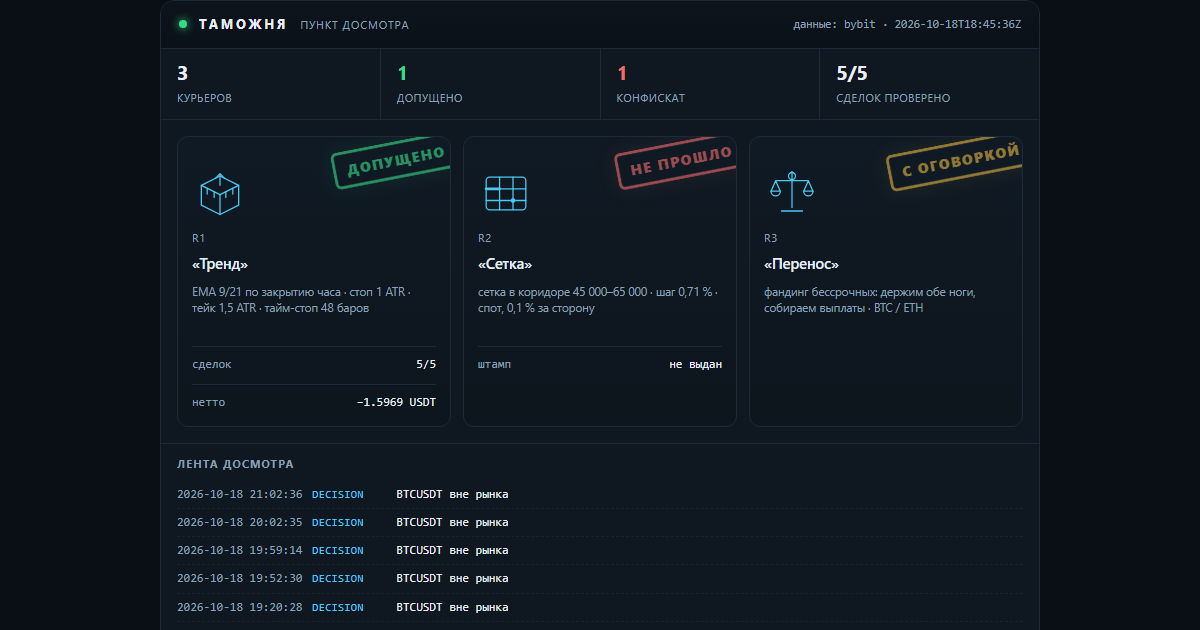
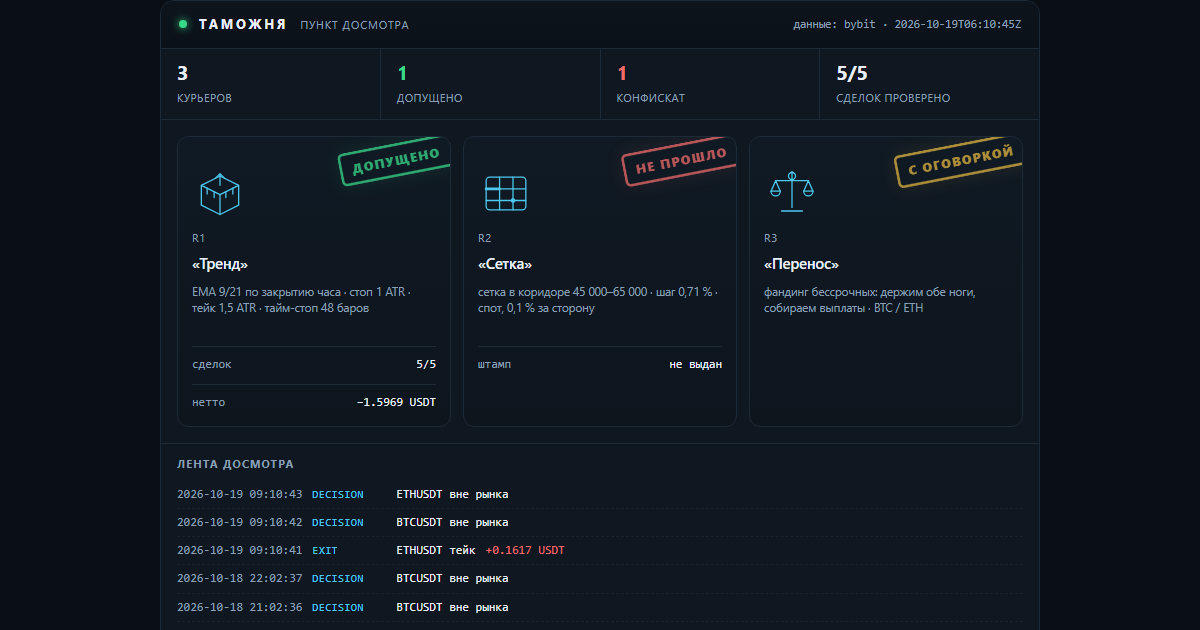
lab: таможня — свежие числа досмотра

diff --git a/docs/customs.html b/docs/customs.html
@@ -16,7 +16,7 @@
   <h1><a href="index.html">Gramwright Lab</a></h1>
   <p>Журнал проверки торговых гипотез: что проверяли, что вышло по факту, сколько съели издержки. Числа берутся из журнала стенда. Не инвестиционная рекомендация.</p>
 </header>
-<h1>Таможня</h1><p class="intro">Пункт досмотра заявленных результатов. Стратегии приезжают с грузом обещаний, и каждая проходит проверку по публичным данным биржи: цены существуют, комиссии по тарифу, нетто сходится. Что прошло — получает штамп. Что не прошло — в конфискат, с причиной. Штамп означает «записи подлинные», а не «стратегия прибыльна».</p><p><img src="img/customs.png" alt="Терминал досмотра: три курьера, штампы, лента событий" style="width:100%;height:auto;border:1px solid var(--line);border-radius:10px"></p><p class="c-note">Сверху — тот же терминал, что собирается из журналов: счётчики, эмблемы курьеров, штампы и лента последних событий. Ниже — то же самое текстом, чтобы читалось с телефона и индексировалось поиском.</p><article><h2>R1 «Тренд» <span class="verdict">— <span class="c-ok">допущено</span></span></h2><p><strong>Правило:</strong> EMA 9/21 по закрытию часа · стоп 1 ATR · тейк 1,5 ATR · тайм-стоп 48 баров</p><p><strong>Декларация:</strong> Заявлено до прогона: держать 30 сделок, лимит нотионала 10 % от счёта, стоп дня −1 %. Прибыль не заявлялась — это важно: курьер не обещал доход.</p><p><strong>Проверено по публичным свечам, без ключей:</strong> 5 из 5 сделок. Сумма нетто −1.5969 USDT.</p><ul class="c-chk"><li class="y">BTCUSDT: нетто −0.8746 USDT · комиссии 0.0901 · проверено · с поправкой</li><li class="y">BTCUSDT: нетто −0.5441 USDT · комиссии 0.0896 · проверено</li><li class="y">ETHUSDT: нетто −0.2253 USDT · комиссии 0.0266 · проверено</li><li class="y">ETHUSDT: нетто −0.1513 USDT · комиссии 0.0265 · проверено</li><li class="y">ETHUSDT: нетто +0.1984 USDT · комиссии 0.0262 · проверено</li></ul><p class="tags">журнал sha256 ccc5a251a33e6d5a… · проверяльщик verify-1</p><p class="c-note">Штамп означает: записи подлинные, а не что стратегия прибыльна. Курьер в минусе, и минус тоже стоит на штампе — иначе это была бы не проверка, а реклама.</p><p class="tags">источник: verify-report.json</p></article><article><h2>R2 «Сетка» <span class="verdict">— <span class="c-bad">не прошло</span></span></h2><p><strong>Правило:</strong> сетка в коридоре 45 000–65 000 · шаг 0,71 % · спот, 0,1 % за сторону</p><p><strong>Декларация:</strong> Заявлено: «44 % урожая уходит бирже в виде комиссий». Кроме того — перевес над простым владением монетой.</p><p><strong>Что сошлось:</strong></p><ul class="c-chk"><li class="y">сами числа пересчитаны и воспроизводятся: коридор 45–65k был активен 23 % всей истории и 28 % последних двух лет</li></ul><p><strong>Что не сошлось:</strong></p><ul class="c-chk"><li class="n">44 % не подтвердилось: при шаге 0,71 % и тарифе 0,1 % комиссия съедает 28,3 % шага. Чтобы получить 44 %, нужен шаг 0,45 % — это около 80 уровней, а не 50</li><li class="n">от урожая доля комиссий 85,5 % за всю историю и 49,6 % за последние два года — тоже не 44 %</li><li class="n">перевес над владением посчитан на тарифе 0,055 %: при нём +1,32 п. п., на розничном 0,1 % — −0,72 п. п. То есть перевес исчезает</li><li class="n">семилетний тест стартовал в сентябре 2019 при биткоине около 10 000 — ниже коридора. Он говорит, что фиксированный коридор не подходит для периода, а не что сетка отстаёт</li></ul><p class="tags">источник: lab_grid.py, пересчёт 17.10.2026</p></article><article><h2>R3 «Перенос» <span class="verdict">— <span class="c-warn">с оговоркой</span></span></h2><p><strong>Правило:</strong> фандинг бессрочных: держим обе ноги, собираем выплаты · BTC / ETH</p><p><strong>Декларация:</strong> Заявлено: около 11,9 % в год от выплат фандинга при просадке выплатной кривой меньше 2 %.</p><p><strong>Что сошлось:</strong></p><ul class="c-chk"><li class="y">выплаты взяты из публичной истории биржи, ключей не нужно: BTC — 7 190 выплат с 25.03.2020, ETH — 6 561 с 21.10.2020</li><li class="y">сумма сходится: +83,4 % и +83,2 % за 6,6 и 6,0 года — те самые ~11,9 % в год</li><li class="y">худшая просадка выплатной кривой: −1,65 % и −1,97 %</li></ul><p><strong>Что не сошлось:</strong></p><ul class="c-chk"><li class="n">оговорка 1: премию сжали — 2021 год дал +38,3 %, 2026 — +1,96 %. Прошлое не повторяется</li><li class="n">оговорка 2: вход-выход стоит около 0,31 %, капитала нужно 1,2 от нотионала, текущий базис −0,082 % против входа</li><li class="n">оговорка 3: риск площадки. История FTX в этой же таблице выглядела так же прилично</li></ul><p class="tags">источник: публичная история фандинга Bybit, замер 17.10.2026</p></article><div class="c-conf"><h3>Конфискат</h3><p><strong>«Сетка»: заявленные 44 % комиссий не подтвердились.</strong> Досмотр показал 28,3 % от шага и 85,5 % от урожая — цифра хуже заявленной по форме, но лучше по смыслу: сетку убивает не размер шага, а то, что урожай почти весь уходит в комиссии. Это и вышло в выпуск — с поправкой, а не с красивой цифрой.</p></div><p class="c-note">Пломба: <code>2026-10-18T18:45:36Z</code> · нотариус FreeTSA · Oct 18 18:45:36 2026 GMT · подпись подтверждена. Манифест скрепляет отчёт проверки, журнал сделок и декларации курьеров: подменишь любую цифру — пломба перестанет сходиться.</p><p class="c-note">Досмотр идёт по публичным минутным свечам и публичной истории фандинга — ключей у проверяющего нет, и он может повторить проверку сам.</p><p class="c-note">Контент образовательный, не является инвестиционной рекомендацией. Торговля связана с риском потери капитала.</p>
+<h1>Таможня</h1><p class="intro">Пункт досмотра заявленных результатов. Стратегии приезжают с грузом обещаний, и каждая проходит проверку по публичным данным биржи: цены существуют, комиссии по тарифу, нетто сходится. Что прошло — получает штамп. Что не прошло — в конфискат, с причиной. Штамп означает «записи подлинные», а не «стратегия прибыльна».</p><p><img src="img/customs.png" alt="Терминал досмотра: три курьера, штампы, лента событий" style="width:100%;height:auto;border:1px solid var(--line);border-radius:10px"></p><p class="c-note">Сверху — тот же терминал, что собирается из журналов: счётчики, эмблемы курьеров, штампы и лента последних событий. Ниже — то же самое текстом, чтобы читалось с телефона и индексировалось поиском.</p><article><h2>R1 «Тренд» <span class="verdict">— <span class="c-ok">допущено</span></span></h2><p><strong>Правило:</strong> EMA 9/21 по закрытию часа · стоп 1 ATR · тейк 1,5 ATR · тайм-стоп 48 баров</p><p><strong>Декларация:</strong> Заявлено до прогона: держать 30 сделок, лимит нотионала 10 % от счёта, стоп дня −1 %. Прибыль не заявлялась — это важно: курьер не обещал доход.</p><p><strong>Проверено по публичным свечам, без ключей:</strong> 5 из 5 сделок. Сумма нетто −1.5969 USDT.</p><ul class="c-chk"><li class="y">BTCUSDT: нетто −0.8746 USDT · комиссии 0.0901 · проверено · с поправкой</li><li class="y">BTCUSDT: нетто −0.5441 USDT · комиссии 0.0896 · проверено</li><li class="y">ETHUSDT: нетто −0.2253 USDT · комиссии 0.0266 · проверено</li><li class="y">ETHUSDT: нетто −0.1513 USDT · комиссии 0.0265 · проверено</li><li class="y">ETHUSDT: нетто +0.1984 USDT · комиссии 0.0262 · проверено</li></ul><p class="tags">журнал sha256 e676dcd4d7034d17… · проверяльщик verify-1</p><p class="c-note">Штамп означает: записи подлинные, а не что стратегия прибыльна. Курьер в минусе, и минус тоже стоит на штампе — иначе это была бы не проверка, а реклама.</p><p class="tags">источник: verify-report.json</p></article><article><h2>R2 «Сетка» <span class="verdict">— <span class="c-bad">не прошло</span></span></h2><p><strong>Правило:</strong> сетка в коридоре 45 000–65 000 · шаг 0,71 % · спот, 0,1 % за сторону</p><p><strong>Декларация:</strong> Заявлено: «44 % урожая уходит бирже в виде комиссий». Кроме того — перевес над простым владением монетой.</p><p><strong>Что сошлось:</strong></p><ul class="c-chk"><li class="y">сами числа пересчитаны и воспроизводятся: коридор 45–65k был активен 23 % всей истории и 28 % последних двух лет</li></ul><p><strong>Что не сошлось:</strong></p><ul class="c-chk"><li class="n">44 % не подтвердилось: при шаге 0,71 % и тарифе 0,1 % комиссия съедает 28,3 % шага. Чтобы получить 44 %, нужен шаг 0,45 % — это около 80 уровней, а не 50</li><li class="n">от урожая доля комиссий 85,5 % за всю историю и 49,6 % за последние два года — тоже не 44 %</li><li class="n">перевес над владением посчитан на тарифе 0,055 %: при нём +1,32 п. п., на розничном 0,1 % — −0,72 п. п. То есть перевес исчезает</li><li class="n">семилетний тест стартовал в сентябре 2019 при биткоине около 10 000 — ниже коридора. Он говорит, что фиксированный коридор не подходит для периода, а не что сетка отстаёт</li></ul><p class="tags">источник: lab_grid.py, пересчёт 17.10.2026</p></article><article><h2>R3 «Перенос» <span class="verdict">— <span class="c-warn">с оговоркой</span></span></h2><p><strong>Правило:</strong> фандинг бессрочных: держим обе ноги, собираем выплаты · BTC / ETH</p><p><strong>Декларация:</strong> Заявлено: около 11,9 % в год от выплат фандинга при просадке выплатной кривой меньше 2 %.</p><p><strong>Что сошлось:</strong></p><ul class="c-chk"><li class="y">выплаты взяты из публичной истории биржи, ключей не нужно: BTC — 7 190 выплат с 25.03.2020, ETH — 6 561 с 21.10.2020</li><li class="y">сумма сходится: +83,4 % и +83,2 % за 6,6 и 6,0 года — те самые ~11,9 % в год</li><li class="y">худшая просадка выплатной кривой: −1,65 % и −1,97 %</li></ul><p><strong>Что не сошлось:</strong></p><ul class="c-chk"><li class="n">оговорка 1: премию сжали — 2021 год дал +38,3 %, 2026 — +1,96 %. Прошлое не повторяется</li><li class="n">оговорка 2: вход-выход стоит около 0,31 %, капитала нужно 1,2 от нотионала, текущий базис −0,082 % против входа</li><li class="n">оговорка 3: риск площадки. История FTX в этой же таблице выглядела так же прилично</li></ul><p class="tags">источник: публичная история фандинга Bybit, замер 17.10.2026</p></article><div class="c-conf"><h3>Конфискат</h3><p><strong>«Сетка»: заявленные 44 % комиссий не подтвердились.</strong> Досмотр показал 28,3 % от шага и 85,5 % от урожая — цифра хуже заявленной по форме, но лучше по смыслу: сетку убивает не размер шага, а то, что урожай почти весь уходит в комиссии. Это и вышло в выпуск — с поправкой, а не с красивой цифрой.</p></div><p class="c-note">Пломба: <code>2026-10-19T06:10:45Z</code> · нотариус FreeTSA · Oct 19 06:10:45 2026 GMT · подпись подтверждена. Манифест скрепляет отчёт проверки, журнал сделок и декларации курьеров: подменишь любую цифру — пломба перестанет сходиться.</p><p class="c-note">Досмотр идёт по публичным минутным свечам и публичной истории фандинга — ключей у проверяющего нет, и он может повторить проверку сам.</p><p class="c-note">Контент образовательный, не является инвестиционной рекомендацией. Торговля связана с риском потери капитала.</p>
 <footer class="site">
   Код стенда и аудитора: <a href="https://github.com/XSlaidx/truth-engine">XSlaidx/truth-engine</a>
   &middot; <a href="graveyard.html">кладбище правил</a>
